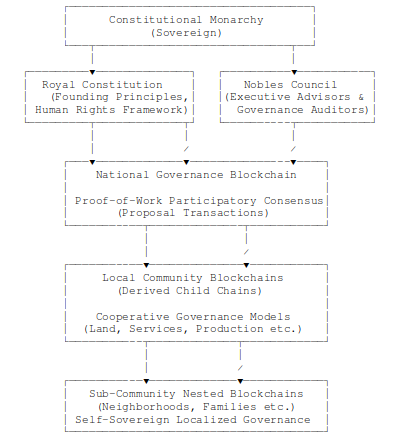
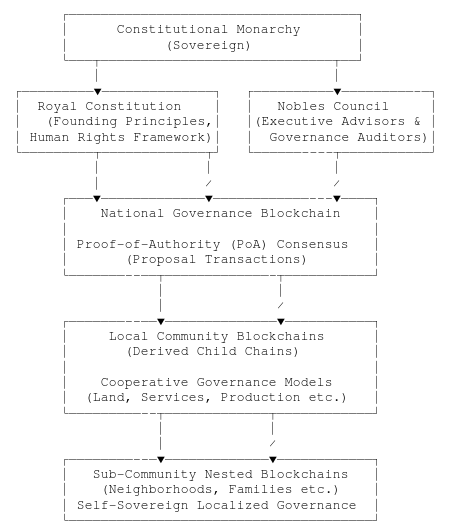
This is the second version of my whitepaper on restructuring Tonga's governance model, now based on Proof-of-Authority consensus in alignment with the Pasifika Data Chain

Changed region(s): [[0.0303, 0.0, 0.9697, 1.0]]

diff --git a/README.md b/README.md
@@ -8,6 +8,8 @@
 
 📄 **[Download PDF Version](https://github.com/EdwinLiavaa/Whitepaper/blob/main/files/dmm-kingdom-of-tonga-white-paper-POA-2nd-DRAFT.pdf)**
 
+🔬 **[View on ResearchGate](https://www.researchgate.net/publication/396374072_dmm-kingdom-of-tonga-white-paper-POA-2nd-DRAFT)**
+
 It is now available alongside [Version 1 (Proof-of-Work)](https://github.com/EdwinLiavaa/Whitepaper/blob/main/README-v1-POW.md)
 
 <p align="center">
